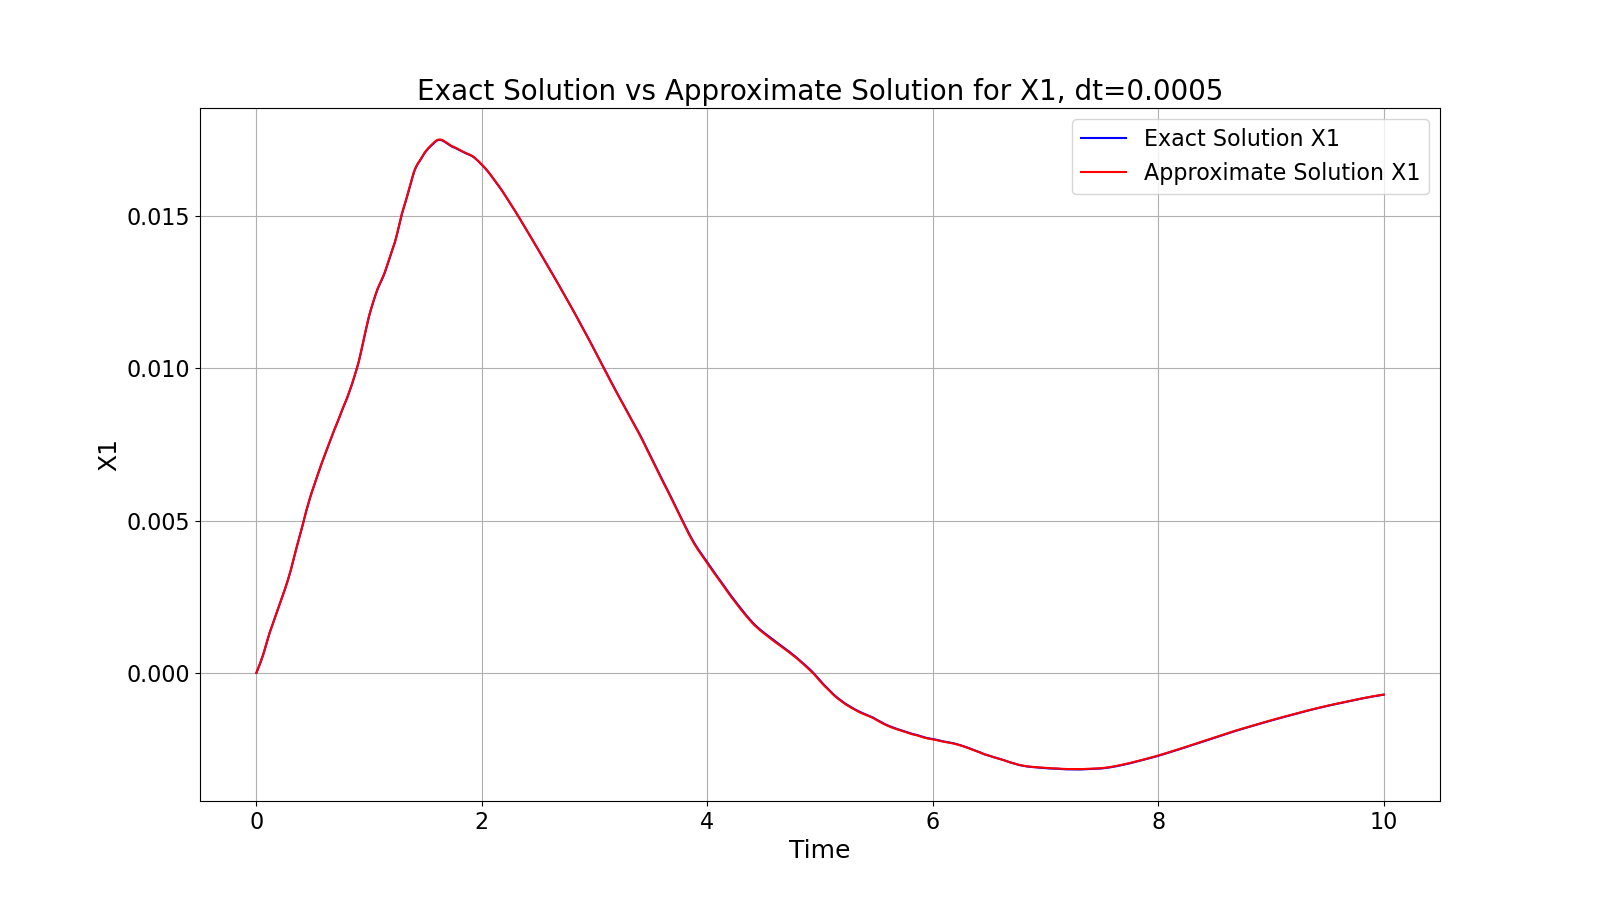
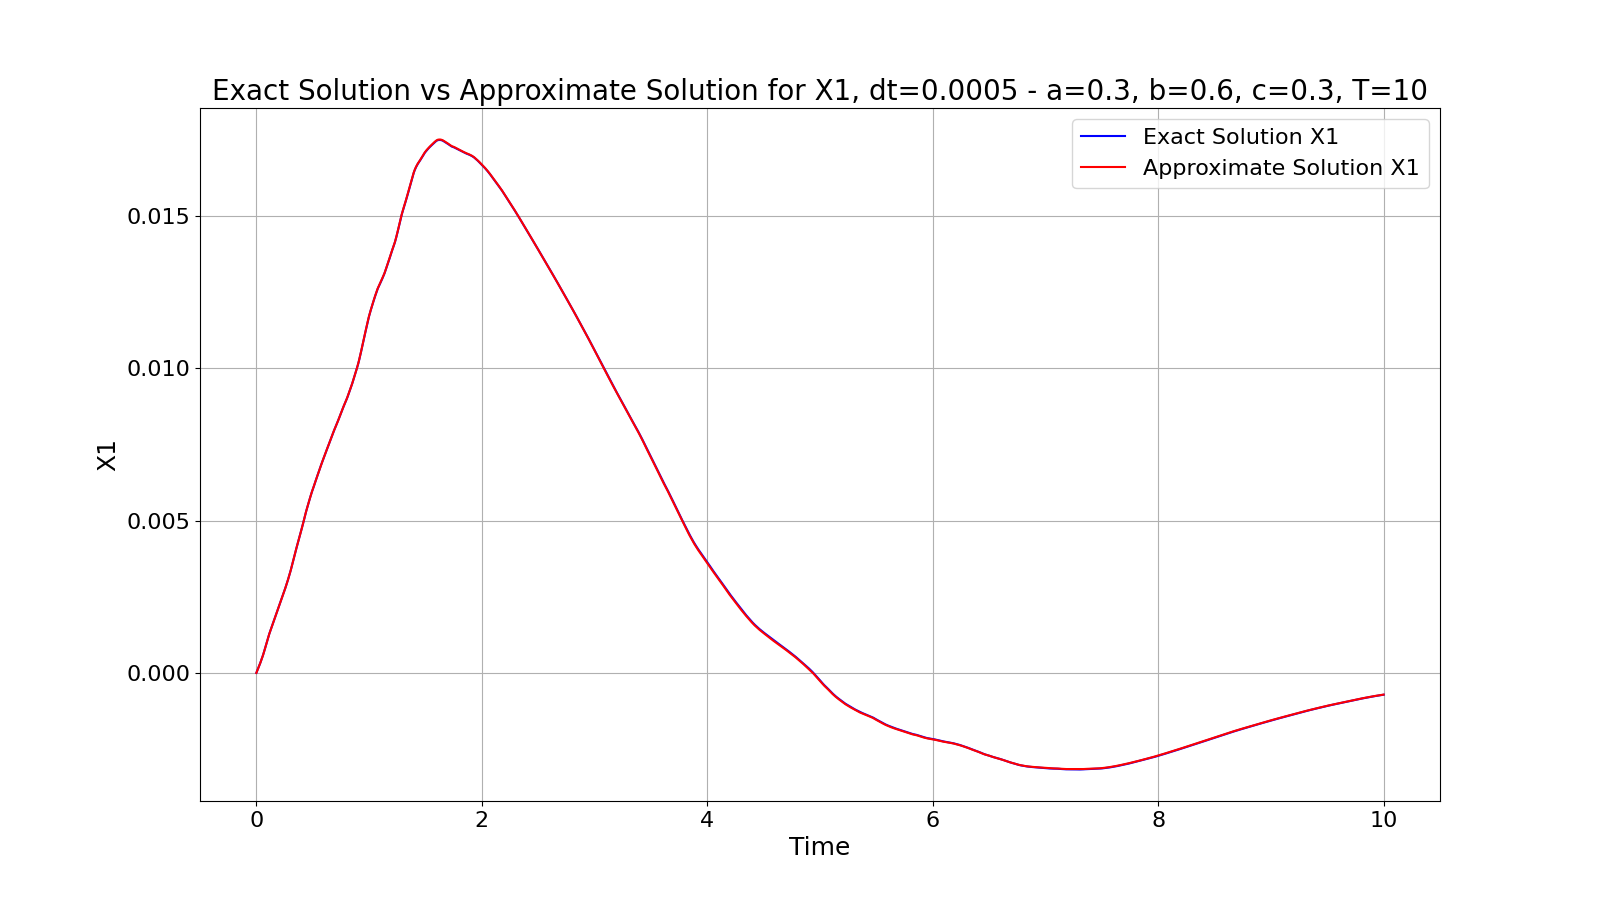
imagini

diff --git a/Satelit/cod.py b/Satelit/cod.py
@@ -93,7 +93,7 @@ if sol_plots==True:
         ax.set_xlabel("Time", fontsize=label_size)
         ax.set_ylabel("X1", fontsize=label_size)
         ax.tick_params(axis='both', which='major', labelsize=tick_size)
-        ax.set_title(f"Exact Solution vs Approximate Solution for X1, dt={dt}", fontsize=title_size)
+        ax.set_title(f"Exact Solution vs Approximate Solution for X1, dt={dt} - a={a}, b={b}, c={c}, T={T}", fontsize=title_size)
         ax.legend(fontsize=legend_size)
         ax.grid()
         ax.set_aspect(ar)
@@ -107,7 +107,7 @@ if sol_plots==True:
         ax.set_xlabel("Time", fontsize=label_size)
         ax.set_ylabel("X2", fontsize=label_size)
         ax.tick_params(axis='both', which='major', labelsize=tick_size)    
-        ax.set_title(f"Exact Solution vs Approximate Solution for X2, dt={dt}", fontsize=title_size)
+        ax.set_title(f"Exact Solution vs Approximate Solution for X2, dt={dt} - a={a}, b={b}, c={c}, T={T}", fontsize=title_size)
         ax.legend(fontsize=legend_size)
         ax.grid()
         ax.set_aspect(ar)
